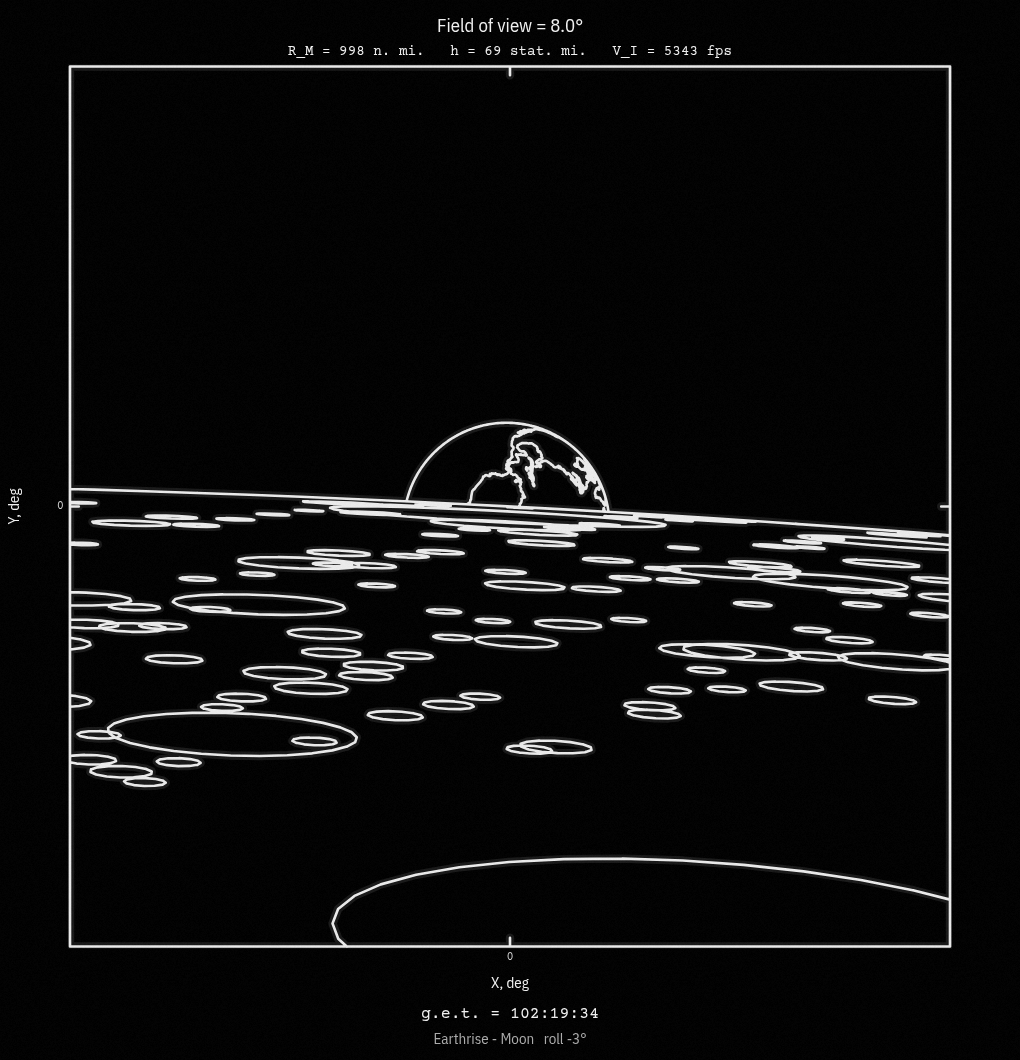
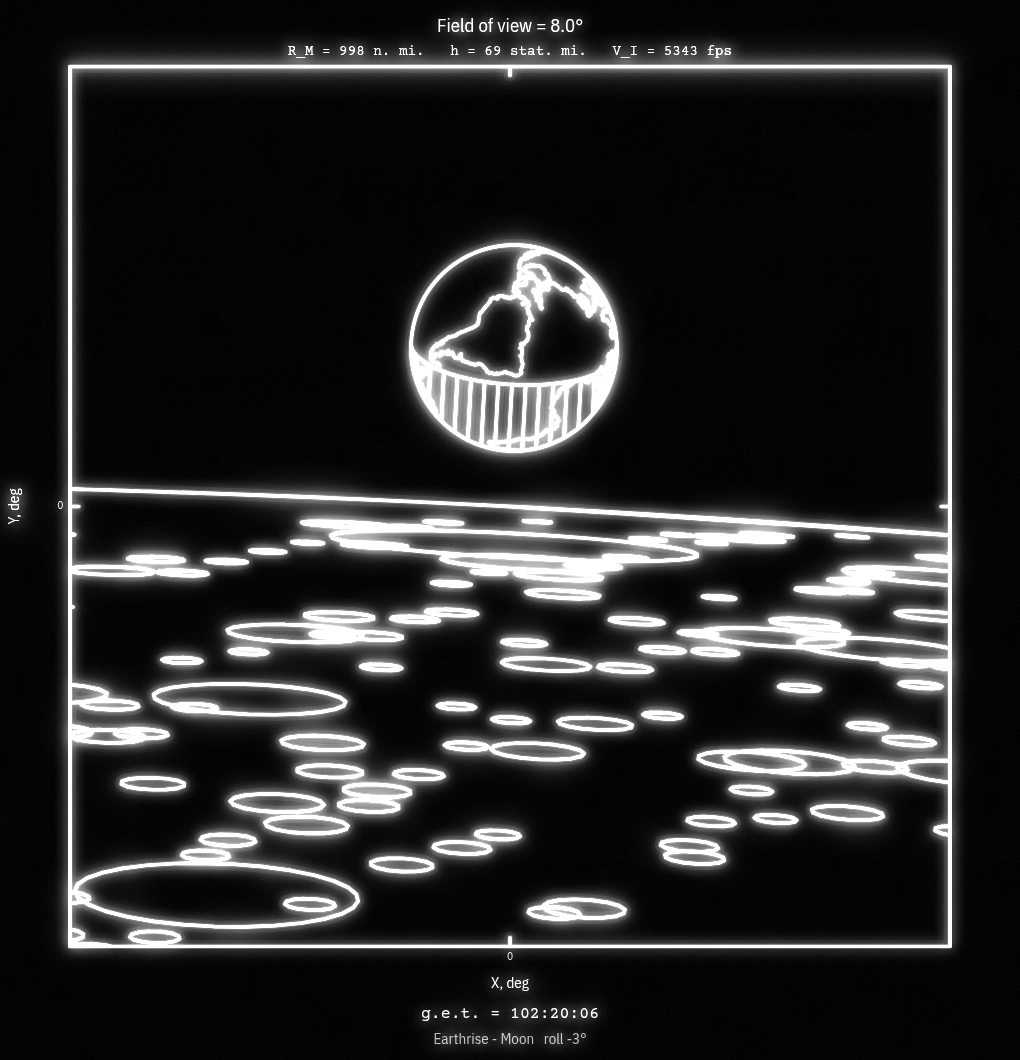
Earthrise still: Earth clear of the limb, with bloom
The ?still=earthrise capture now defaults to 70 s after the scene start,
when the Earth hangs above the limb with its night side hatched (like
film frame t04), and takes ?t= to adjust. README hero and link-preview
image are recaptured from it with bloom on.

Changed region(s): [[0.0, 0.0, 0.9422, 0.9962]]

diff --git a/web/page.template.html b/web/page.template.html
@@ -586,7 +586,7 @@ window.addEventListener("resize", resize);
 boot().then(() => {
   resize(); setScene(1);
   if (BARE) { document.body.classList.add("still"); resize(); }
-  if (STILL) { playing = false; get = get0 + 38; roll = -3; labels = false; syncUI(); }
+  if (STILL) { const tq = /[?&]t=(-?[0-9.]+)/.exec(location.search); playing = false; get = get0 + (tq ? parseFloat(tq[1]) : 70); roll = -3; labels = false; syncUI(); }
   else startMode("attract"); requestAnimationFrame(tick); })
   .catch(e => { $("err").textContent = "Could not start the kernel: " + e.message; console.error(e); });
 })();
